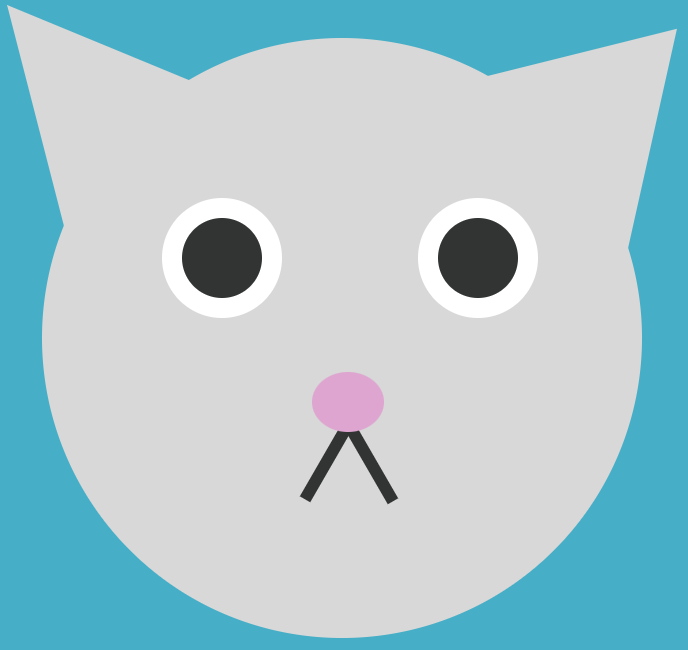
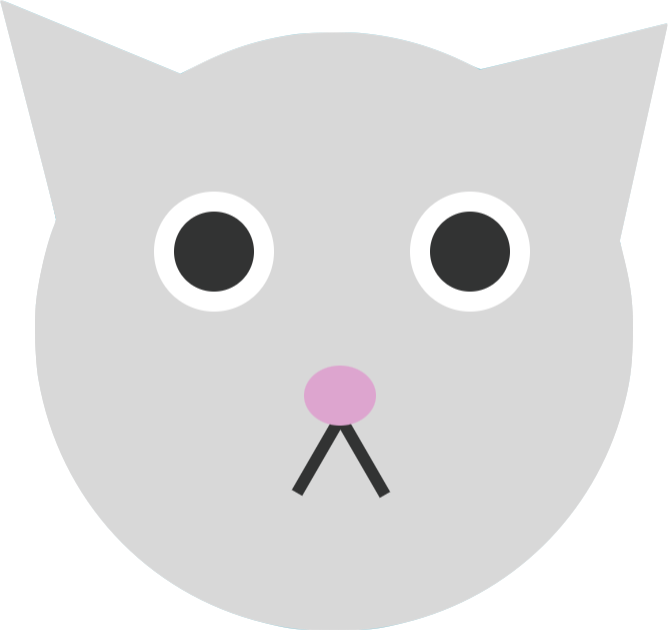
Removed background from images and implemented flexbox for responsive image display.

diff --git a/css/style.css b/css/style.css
@@ -32,7 +32,12 @@ h4 {
 input {
   display: block;
   padding: 10px;
-  margin-bottom: 10px; }
+  margin-bottom: 10px;
+  font-family: 'Rubik', sans-serif; }
+
+select {
+  padding: 7px 3px;
+  font-family: 'Rubik', sans-serif; }
 
 .winning-score {
   margin-top: 10px;
@@ -48,10 +53,16 @@ input {
   max-width: 500px;
   margin: 20px auto; }
 
+.img-wrapper {
+  display: flex;
+  flex-flow: row wrap; }
+
 .cat-thumbnail {
-  width: 100px;
+  width: 145px;
   margin-right: 20px;
   cursor: pointer; }
+  .cat-thumbnail:hover {
+    animation: shake 1s; }
 
 .grid-container {
   display: none;
@@ -238,4 +249,7 @@ input {
 
 @media (max-width: 668px) {
   #top-message, #kitty, #bottom-message {
-    padding-left: 12%; } }
+    padding-left: 12%; }
+  .img-wrapper {
+    flex-flow: column;
+    margin: 20px; } }

diff --git a/sass/main.scss b/sass/main.scss
@@ -51,6 +51,12 @@ input {
   display: block;
   padding: 10px;
   margin-bottom: 10px;
+  font-family: 'Rubik', sans-serif;
+}
+
+select {
+  padding: 7px 3px;
+  font-family: 'Rubik', sans-serif;
 }
 
 .winning-score {
@@ -70,10 +76,19 @@ input {
   margin: 20px auto;
 }
 
+.img-wrapper {
+  display: flex;
+  flex-flow: row wrap;
+}
+
 .cat-thumbnail {
-  width: 100px;
+  width: 145px;
   margin-right: 20px;
   cursor: pointer;
+
+  &:hover {
+    animation: shake 1s;
+  }
 }
 
 .grid-container {
@@ -318,5 +333,9 @@ input {
 @media (max-width: $breakpoint-small) {
   #top-message, #kitty, #bottom-message {
     padding-left: 12%;
+  }
+  .img-wrapper {
+    flex-flow: column;
+    margin: 20px;
   }
 }

diff --git a/index.html b/index.html
@@ -25,9 +25,12 @@
       </select>
       
       <h4>Click on a chonk to find out more:</h4>
+      <div class="img-wrapper">
         <img class="cat-thumbnail" id="baby" src="./img/baby.png" alt="baby kitty">
         <img class="cat-thumbnail" id="catto" src="./img/catto.png" alt="catto" onclick="cattoInfo()">
         <img class="cat-thumbnail" id="chonk" src="./img/chonk.png" alt="chonk" onclick="chonkInfo()">
+      </div>
+        
 
       <h4>Whomst you be?</h4>
       <label for="names">Hooman 1:</label>
